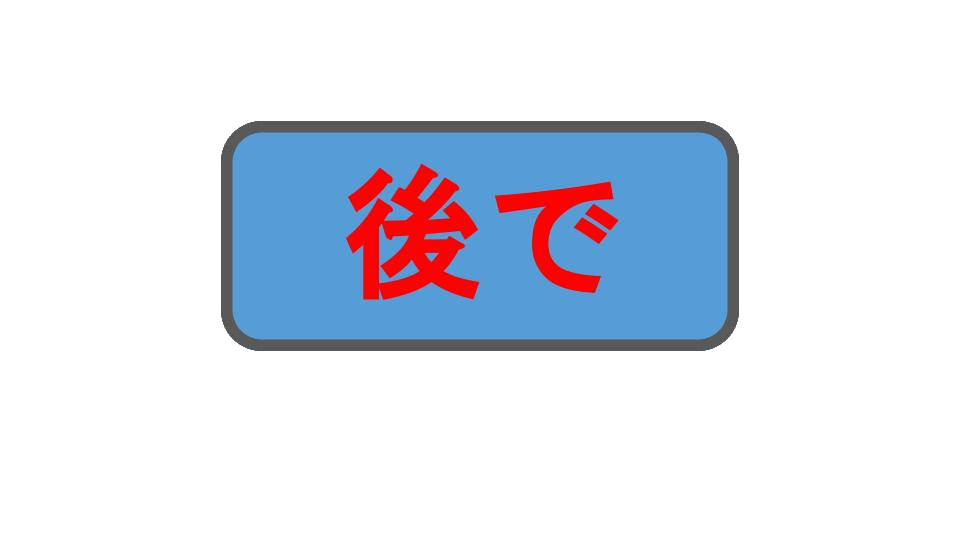
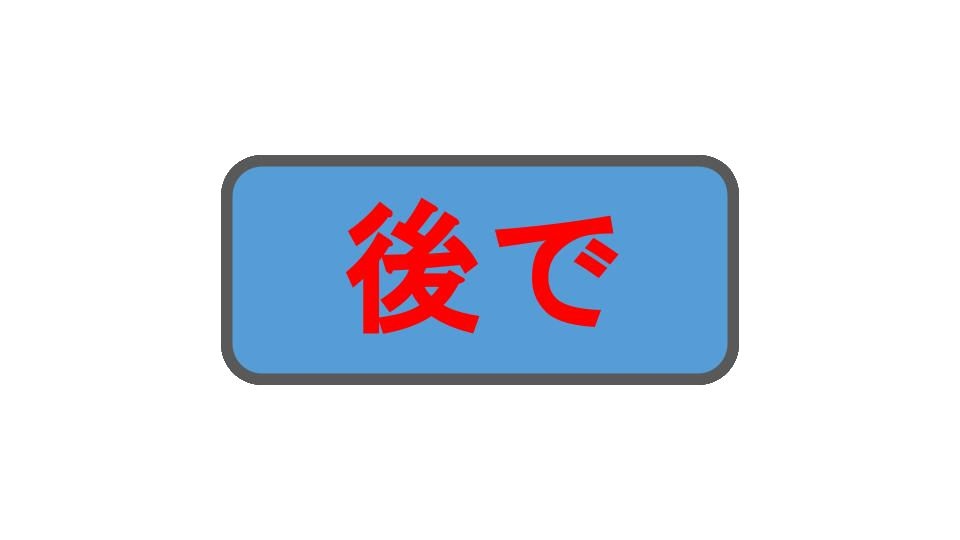
laterButtonの追加とメニューのスタイル調整、checkLink.jsとgoNext.jsの追加

Changed region(s): [[0.2188, 0.2074, 0.7812, 0.7111]]

diff --git a/src/index.js b/src/index.js
@@ -23,12 +23,24 @@ function createMenu() {
             menuElement.style.background = "#d49650";
             menuElement.style.width = "800px";
             menuElement.style.height = "50px";
-            //menuElement.textContent = "MENU";
+
+            // Flexbox で中央揃え
+            menuElement.style.display = "flex";
+            menuElement.style.alignItems = "center";   // 縦中央
+            menuElement.style.justifyContent = "center"; // 横中央
+
             document.body.appendChild(menuElement);
 
-            // 後でボタン
+            // ボタン
             let laterButton = document.createElement("img");
             laterButton.src = chrome.runtime.getURL("assets/laterButton.png");
+            laterButton.style.height = "90px";
+            laterButton.style.cursor = "pointer";
+            laterButton.title = "後で";
+            laterButton.onclick = function() {
+                addLink(nowPage);
+                alert("後で見るリストに追加しました。");
+            }
             menuElement.appendChild(laterButton);
         //}
     }, 5000);

diff --git a/src/checkLink.js b/src/checkLink.js
@@ -1,0 +1,5 @@
+function addLink(callback) {
+    chrome.storage.local.get({ Links: [] }, function(result) {
+        callback(result.Links);
+    });
+}

diff --git a/src/goNext.js b/src/goNext.js
@@ -1,0 +1,3 @@
+function goNext( nowHref ) {
+    //window.location.href = ;
+}
